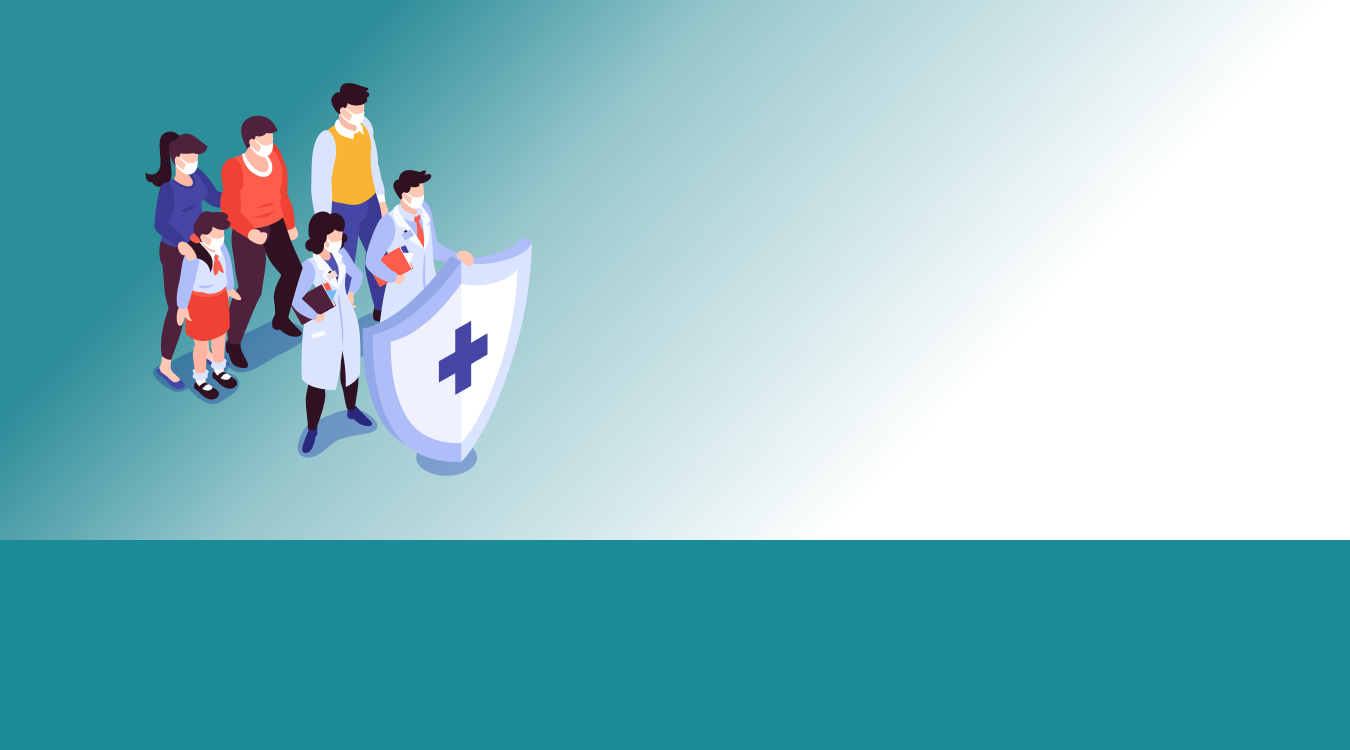
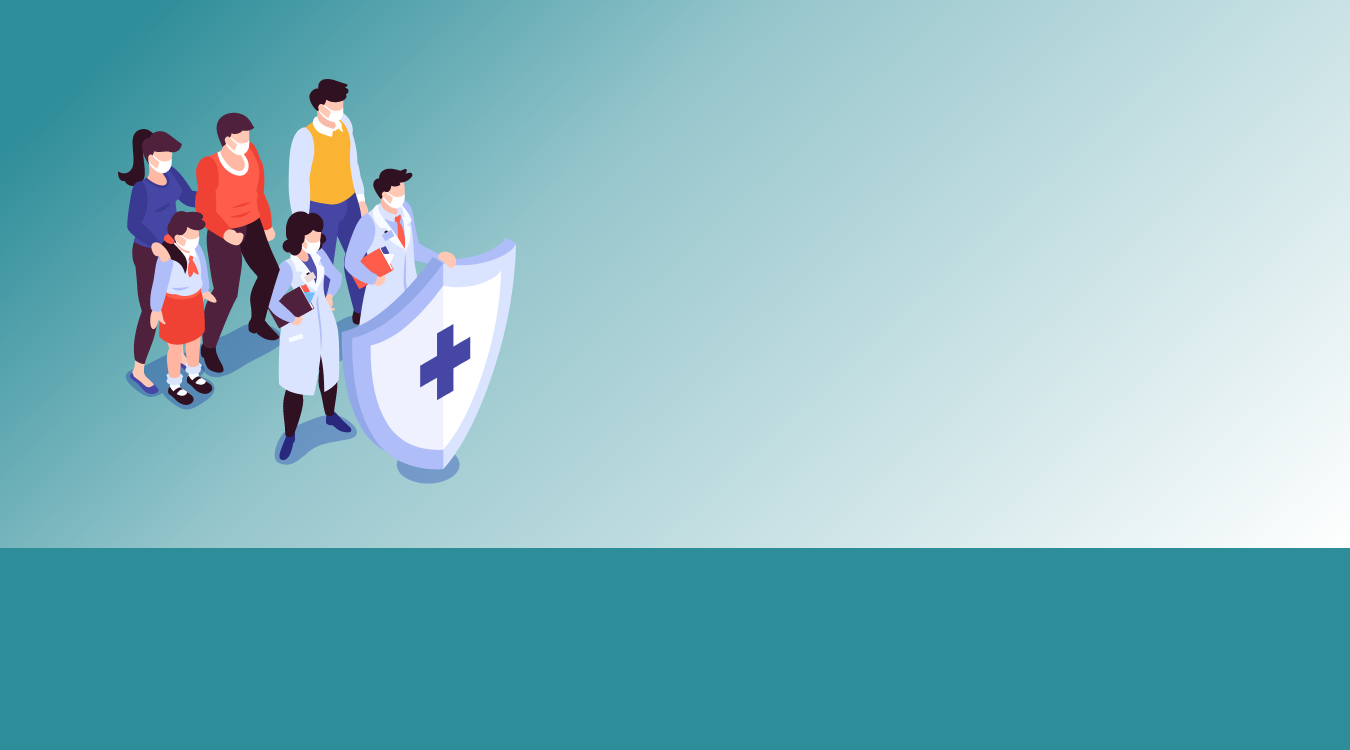
feautre(landing-page): Display sections based on user role

diff --git a/src/pages/LandingPage.jsx b/src/pages/LandingPage.jsx
@@ -5,11 +5,12 @@ import ArticleCard from "../components/article/ArticleCard";
 import Footer from "../components/layouts/Footer";
 import Navbar from "../components/layouts/Navbar";
 import { getArticles } from "../services/articleService";
-
+import { getUser } from "../services/authService";
 const LandingPage = (props) => {
   const { t } = useTranslation();
   const [articles, setArticles] = useState([]);
   const params = { limit: 3 };
+  const currentUser = getUser();
   const getRecentArticles = async () => {
     const _articles = await getArticles(params);
     setArticles(_articles.data.data.docs);
@@ -52,54 +53,37 @@ const LandingPage = (props) => {
             <h2>{t("articles-section-header")}</h2>
           </div>
           <div className="suggested-articles">
-          {articles.map((article) => (
-            <ArticleCard key={article._id} article={article}></ArticleCard>
-          ))}
+            {articles.map((article) => (
+              <ArticleCard key={article._id} article={article}></ArticleCard>
+            ))}
           </div>
         </section>
-        <section className={`section about about-${t("language")}`}>
-          <div className="container">
-            <div className="row align-items-center">
-              <div className="col-lg-4 col-sm-6">
-                <div className="about-img">
-                  <img
-                    src="images/about/img-1.jpg"
-                    alt=""
-                    className="img-fluid"
-                  />
-                  <img
-                    src="images/about/img-2.jpg"
-                    alt=""
-                    className="img-fluid mt-4"
-                  />
-                </div>
-              </div>
-              <div className="col-lg-4 col-sm-6">
-                <div className="about-img mt-4 mt-lg-0">
-                  <img
-                    src="images/about/img-3.jpg"
-                    alt=""
-                    className="img-fluid"
-                  />
-                </div>
-              </div>
-              <div className="col-lg-4">
-                <div className="about-content pl-4 mt-4 mt-lg-0">
-                  <h2 className="title-color">{t("doctor-register-header")}</h2>
-                  <p className="mt-4 mb-5">{t("doctor-register-body")}</p>
+        {!currentUser || currentUser.role === "user" ? (
+          <section className={`section about about-${t("language")}`}>
+            <div className="container">
+              <div className="row align-items-center">
+                <div className="col-lg-4">
+                  <div className="about-content pl-4 mt-4 mt-lg-0">
+                    <h2 className="title-color">
+                      {t("doctor-register-header")}
+                    </h2>
+                    <p className="mt-4 mb-5">{t("doctor-register-body")}</p>
 
-                  <a
-                    href="service.html"
-                    className="btn btn-main-2 btn-round-full btn-icon"
-                  >
-                    {t("doctor-register-btn")}
-                    <i className="icofont-simple-right ml-3"></i>
-                  </a>
+                    <a
+                      href="service.html"
+                      className="btn btn-main-2 btn-round-full btn-icon"
+                    >
+                      {t("doctor-register-btn")}
+                      <i className="icofont-simple-right ml-3"></i>
+                    </a>
+                  </div>
                 </div>
               </div>
             </div>
-          </div>
-        </section>
+          </section>
+        ) : (
+          ""
+        )}
       </div>
 
       <Footer />

diff --git a/public/assets/css/style.css b/public/assets/css/style.css
@@ -506,10 +506,10 @@ a:focus {
   background-size: cover;
 }
 .about-ar-EG{
-  background: url("../images/bg/doctors-right.jpg") no-repeat;
+  background: url("../images/bg/doctors-left.jpg") no-repeat;
 }
 .about-en-US{
-  background: url("../images/bg/doctors-left.jpg") no-repeat;
+  background: url("../images/bg/doctors-right.jpg") no-repeat;
 }
 
 .banner {
